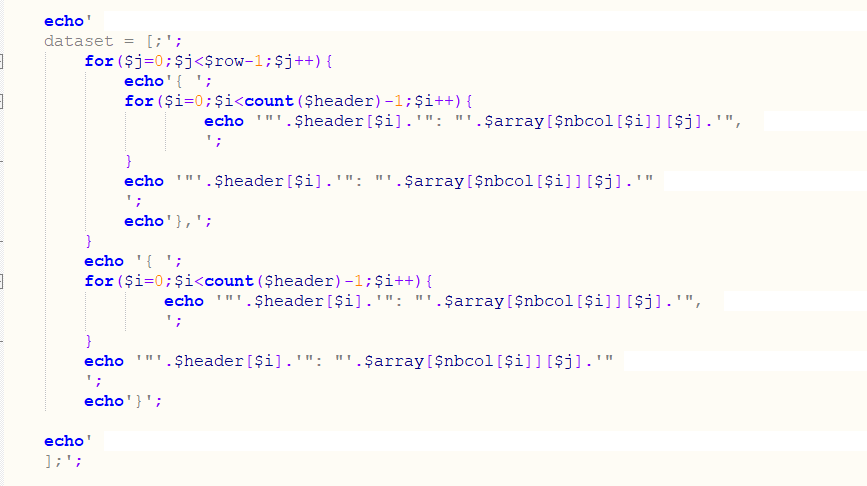
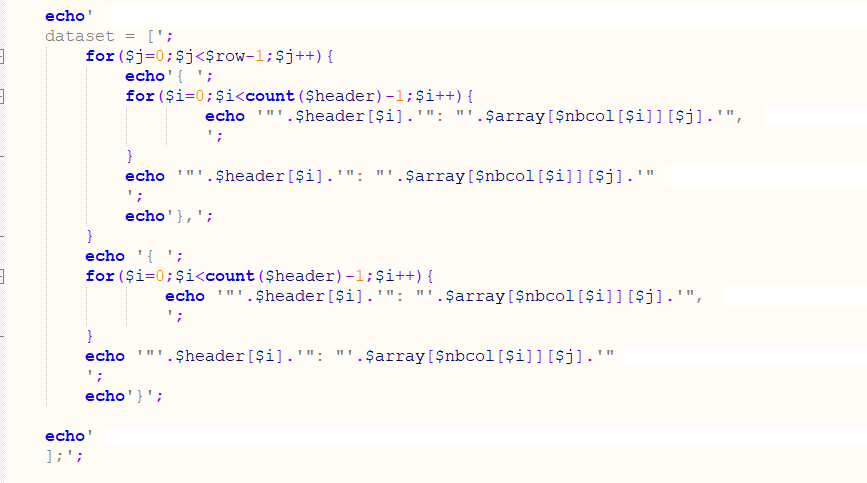
img

diff --git a/exemple/inc.php/parts/data.inc.php b/exemple/inc.php/parts/data.inc.php
@@ -64,8 +64,6 @@ echo'[';
 	}
 	}
 	
-	echo'
-	dataset = [;';
 		for($j=0;$j<$row-1;$j++){
 			echo'{ ';
 			for($i=0;$i<count($header)-1;$i++){
@@ -84,8 +82,6 @@ echo'[';
 		echo '"'.$header[$i].'": "'.$array[$nbcol[$i]][$j].'"
 		';
 		echo'}';
-	
-    echo'
-	];';
+
 	
 ?>
